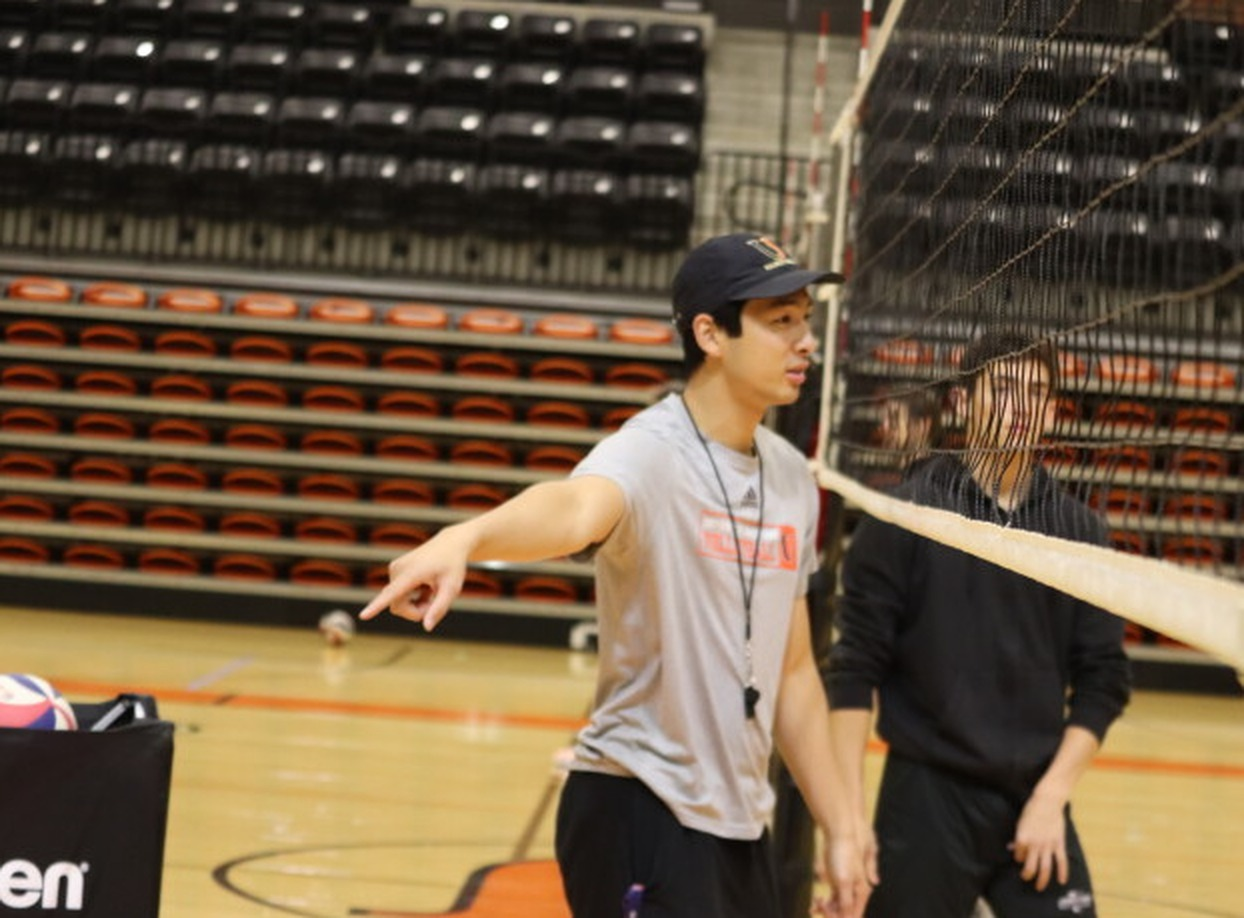
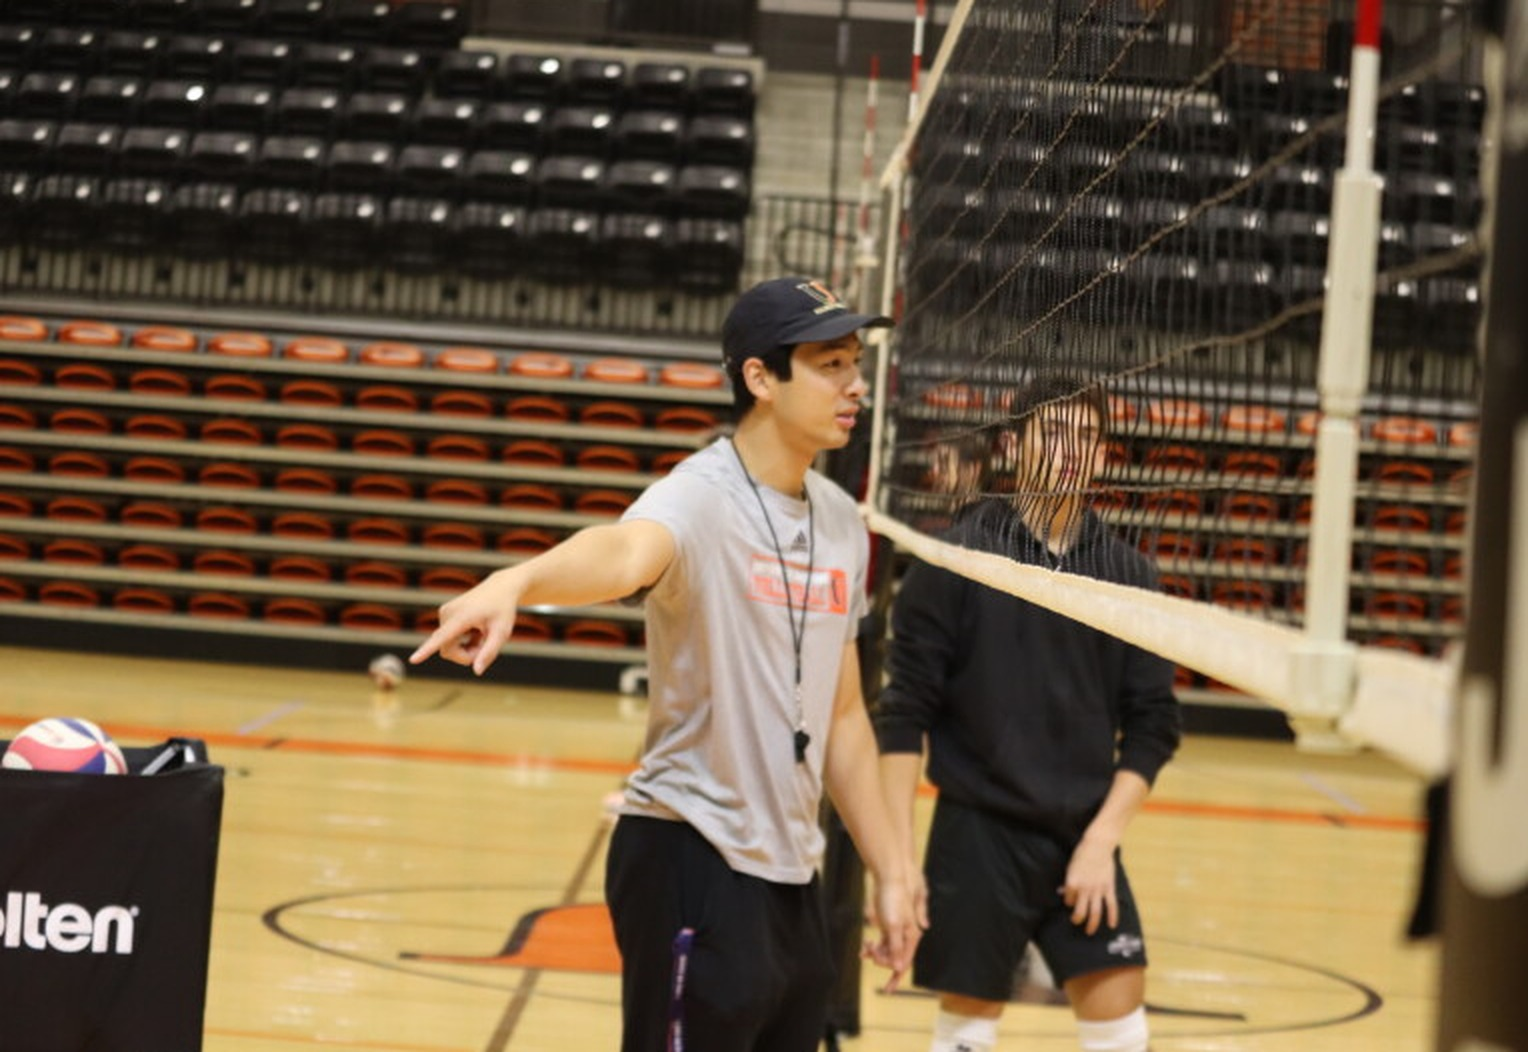
Make hero rectangular with more visible photo and balanced text space
- Use 16:9 hero frame so more of the coaching scene shows
- Center text with equal padding instead of bottom-stacked copy
- Restore wider crop of the pointing photo

diff --git a/index.html b/index.html
@@ -136,22 +136,22 @@
     /* —— Hero —— */
     .hero {
       position: relative;
-      min-height: 100vh;
-      min-height: 100dvh;
+      width: 100%;
+      aspect-ratio: 16 / 9;
+      min-height: 420px;
+      max-height: min(78vh, 820px);
       display: flex;
       flex-direction: column;
-      justify-content: flex-end;
+      justify-content: center;
+      align-items: center;
       overflow: hidden;
       color: #fff;
-      background: #fff;
+      background: #111;
     }
 
     .hero-bg {
       position: absolute;
-      top: 0;
-      left: 0;
-      right: 0;
-      bottom: 0;
+      inset: 0;
       z-index: 0;
       overflow: hidden;
     }
@@ -168,7 +168,7 @@
       position: absolute;
       inset: 0;
       background:
-        linear-gradient(180deg, rgba(10,12,16,0.35) 0%, rgba(10,12,16,0.2) 35%, rgba(10,12,16,0.78) 100%);
+        linear-gradient(180deg, rgba(10,12,16,0.4) 0%, rgba(10,12,16,0.28) 45%, rgba(10,12,16,0.55) 100%);
     }
 
     .hero-content {
@@ -176,7 +176,7 @@
       z-index: 2;
       width: min(92%, 720px);
       margin: 0 auto;
-      padding: 0 0 56px;
+      padding: 48px 20px;
       text-align: center;
       animation: fadeUp 0.9s var(--ease) 0.1s both;
     }
